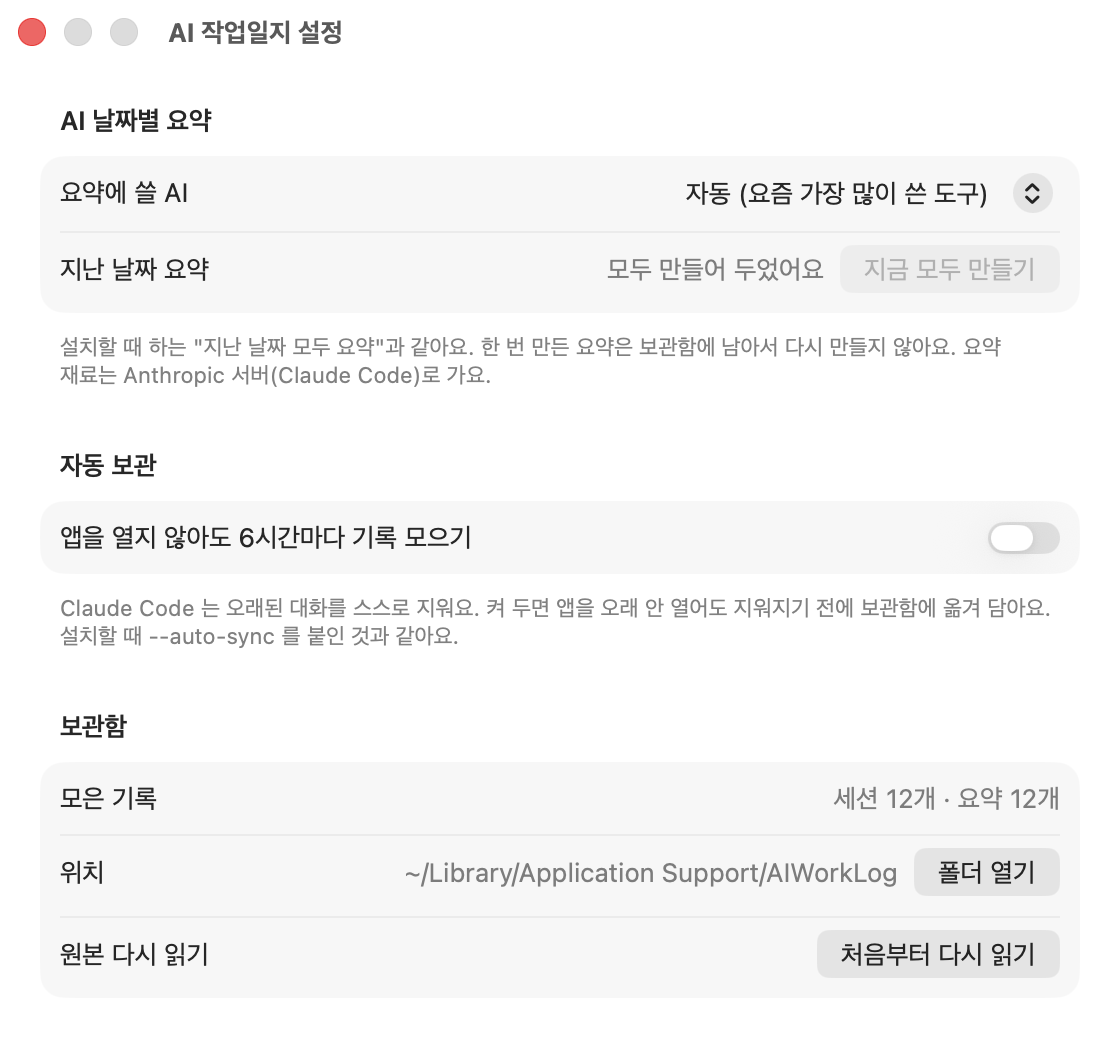
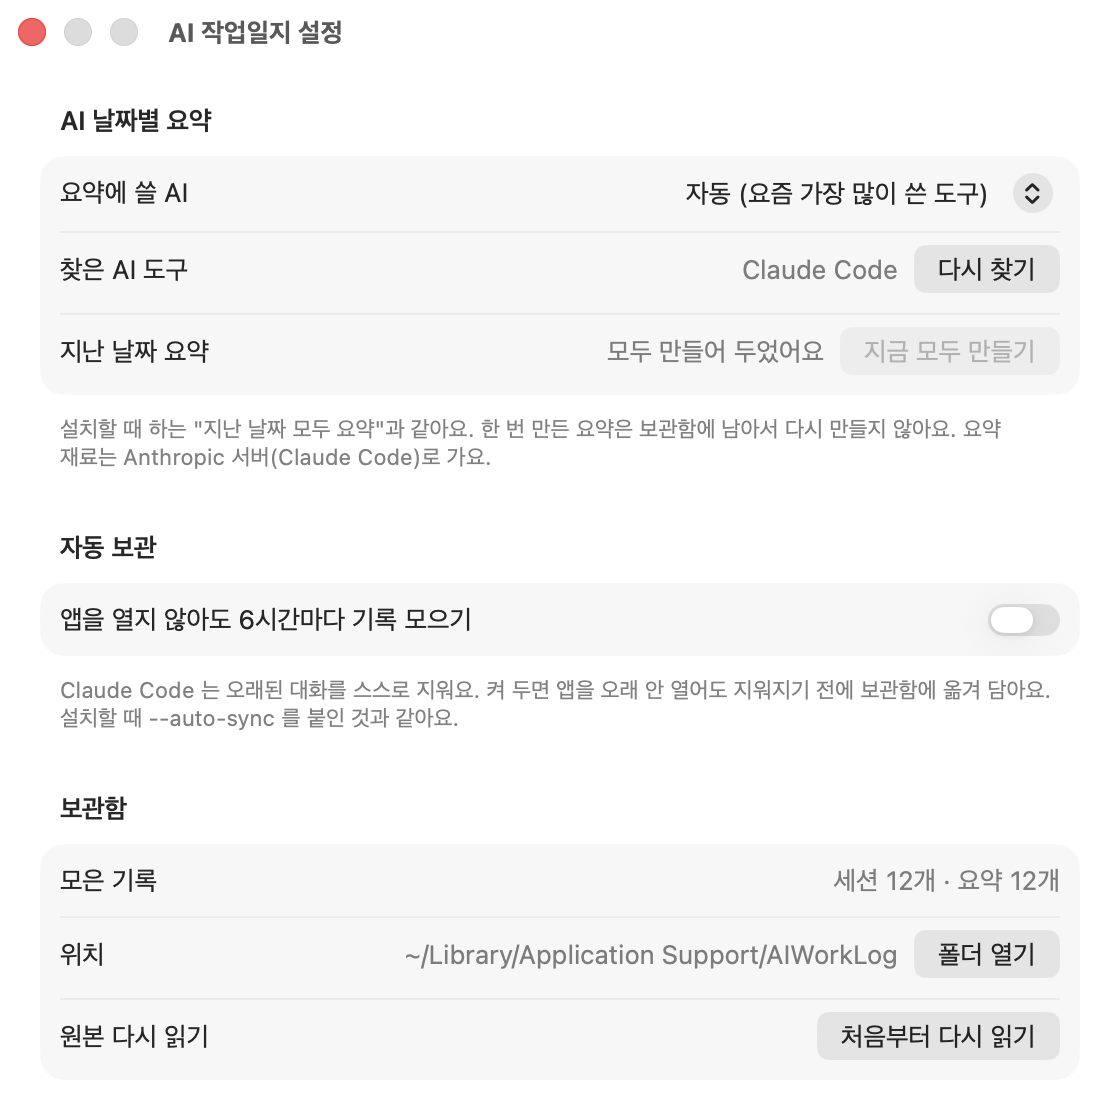
AI 가 없을 때 저장된 요약 보여 주기, 빈 탭 꾸미기
- 요약할 AI 가 없어도 저장해 둔 요약은 그대로 보여 주고 "다시 요약·이어서 요약" 버튼만 숨김
  - 새 요청이 생긴 날은 "요약할 AI 가 없어서 이어 쓰지 못해요"로 알림
- 날짜 목록 위에 "요약해 줄 AI 를 찾지 못했어요" 안내(다시 찾기·닫기), 고른 도구만 없으면 "자동으로 바꾸기"
- 앱으로 돌아올 때 AI 도구를 다시 찾음 (1분에 한 번까지)
- 설정에 "찾은 AI 도구" 줄과 다시 찾기
- 빈 화면을 테두리 카드 가운데 정렬로 통일(EmptyCard): AI 규칙·스킬, AI 메모, 세션, 전체 스킬·규칙
- 화면 확인용 실행 옵션 --no-ai, --tab, README 에 "AI 가 없으면요?" 와 새 설정 그림

diff --git a/Sources/AIWorkLog/ProjectView.swift b/Sources/AIWorkLog/ProjectView.swift
@@ -5,9 +5,16 @@ struct ProjectView: View {
     @Environment(AppModel.self) private var model
     var project: ProjectSummary
 
-    private enum Tab: Hashable { case worklog, sessions, setup, notes }
+    private enum Tab: String, Hashable { case worklog, sessions, setup, notes }
 
-    @State private var tab: Tab = .worklog
+    /// 화면 확인용: `--tab worklog|sessions|setup|notes` 로 시작 탭을 고른다.
+    private static var launchTab: Tab {
+        let args = ProcessInfo.processInfo.arguments
+        guard let i = args.firstIndex(of: "--tab"), i + 1 < args.count else { return .worklog }
+        return Tab(rawValue: args[i + 1]) ?? .worklog
+    }
+
+    @State private var tab: Tab = ProjectView.launchTab
     /// 막대를 눌러 고른 날. 그날 한 일만 본다.
     @State private var pickedDay: Date?
     /// 무한 스크롤: 지금까지 그린 날 수, 세션 수.
@@ -97,6 +104,7 @@ struct ProjectView: View {
         // Group 의 자식은 바깥 LazyVStack 에 하나씩 풀려 들어가서 날마다 따로 늦게 그려진다.
         Group {
             worklogSummary(days)
+            NoSummaryEngineNote()
             if days.isEmpty {
                 emptyWorklog
             }
@@ -134,7 +142,9 @@ struct ProjectView: View {
     @ViewBuilder
     private var emptyWorklog: some View {
         if project.sessions.isEmpty {
-            Text("대화 기록이 지워져 메모만 남은 프로젝트예요").foregroundStyle(.secondary)
+            EmptyCard(title: "남은 세션이 없어요",
+                      message: "대화 기록이 지워져 AI 메모만 남은 프로젝트예요.",
+                      symbol: "rectangle.stack")
         } else {
             VStack(alignment: .leading, spacing: 8) {
                 Text(query.isEmpty ? "\(model.period.longLabel)에는 이 프로젝트에서 한 일이 없어요" : "‘\(query)’ 와 맞는 작업이 없어요")
@@ -175,12 +185,9 @@ struct ProjectView: View {
     @ViewBuilder
     private var setup: some View {
         if WorkLogAnalytics.configScopes(for: project.path, configs: model.snapshot.configs).isEmpty && project.skillsUsed.isEmpty {
-            Card {
-                EmptyHint(title: "만들어 둔 규칙·스킬이 없어요",
-                          message: "이 폴더나 상위 폴더에 CLAUDE.md, AGENTS.md, .claude/skills 같은 파일이 생기면 여기에 보여요.",
-                          symbol: "wand.and.stars")
-                    .frame(height: 200)
-            }
+            EmptyCard(title: "만들어 둔 규칙·스킬이 없어요",
+                      message: "이 폴더나 상위 폴더에 CLAUDE.md, AGENTS.md, .claude/skills 같은 파일이 생기면 여기에 보여요.",
+                      symbol: "wand.and.stars")
         } else {
             ProjectConfigCard(project: project)
         }
@@ -189,7 +196,9 @@ struct ProjectView: View {
     @ViewBuilder
     private var notes: some View {
         if project.notes.isEmpty {
-            Text("Claude Code 가 이 프로젝트에 대해 남긴 메모가 없어요").foregroundStyle(.secondary)
+            EmptyCard(title: "AI 가 남긴 메모가 없어요",
+                      message: "Claude Code 가 이 프로젝트에 대해 기억해 둘 것이 생기면 여기에 보여요.",
+                      symbol: "note.text")
         } else {
             Card(title: "AI 가 남긴 메모", subtitle: "Claude Code 가 이 프로젝트에 대해 기억해 둔 내용 (\(project.notes.count)개)") {
                 VStack(alignment: .leading, spacing: 0) {
@@ -249,7 +258,9 @@ struct DayWorkCard: View {
         let added = day.entries.reduce(0) { $0 + $1.linesAdded }
         let removed = day.entries.reduce(0) { $0 + $1.linesRemoved }
         let hasSummary = model.summaries[key] != nil
-        let summarized = model.summaryEngine != nil && (hasSummary || DaySummarizer.promptCount(for: day) > 0)
+        // 요약을 끄지 않았으면 저장해 둔 요약은 AI 가 없어도 보여 준다. 새로 만들 수 있을 때만 빈 요약 자리를 둔다.
+        let summarized = model.summaryChoice != .off
+            && (hasSummary || (model.summaryEngine != nil && DaySummarizer.promptCount(for: day) > 0))
         // 검색 중에는 찾은 요청이 보여야 하고, 아직 요약이 없는 오늘은 요청 목록이 본문이다.
         let expanded = searching || (showDetails ?? !hasSummary)
         VStack(alignment: .leading, spacing: 12) {
@@ -357,6 +368,8 @@ struct DaySummaryBox: View {
         let newer = summary == nil ? 0 : (input?.newSince ?? 0)
         let wake = input?.wakeAt
         let failure: String? = if case .failed(let message) = job { message } else { nil }
+        // 요약할 AI 가 없으면 저장해 둔 요약만 보여 주고, 다시 만드는 버튼은 숨긴다.
+        let canSummarize = model.summaryEngine != nil
 
         VStack(alignment: .leading, spacing: 8) {
             HStack(spacing: 6) {
@@ -372,6 +385,11 @@ struct DaySummaryBox: View {
                     Text(job == .queued ? "차례를 기다리는 중…" : newer > 0 ? "새 요청을 더하는 중…" : "요약하는 중…")
                         .font(.caption)
                         .foregroundStyle(.secondary)
+                } else if !canSummarize {
+                    Text("요약할 AI 없음")
+                        .font(.caption)
+                        .foregroundStyle(.tertiary)
+                        .help("저장해 둔 요약이에요. 새로 만들거나 이어 쓰려면 Claude Code·Codex·LM Studio 중 하나가 있어야 해요")
                 } else {
                     Button {
                         model.requestSummary(project: projectPath, name: projectName, day: day, force: true)
@@ -400,7 +418,7 @@ struct DaySummaryBox: View {
                 }
                 .font(.callout)
                 if newer > 0 && !busy {
-                    Text(newerNote(newer, wake: wake))
+                    Text(newerNote(newer, wake: wake, canSummarize: canSummarize))
                         .font(.caption)
                         .foregroundStyle(.secondary)
                 }
@@ -431,8 +449,9 @@ struct DaySummaryBox: View {
         .background(Color.accentColor.opacity(0.07), in: RoundedRectangle(cornerRadius: 10, style: .continuous))
     }
 
-    private func newerNote(_ newer: Int, wake: Date?) -> String {
+    private func newerNote(_ newer: Int, wake: Date?, canSummarize: Bool) -> String {
         let head = "요약한 뒤로 요청이 \(newer)개 더 생겼어요."
+        if !canSummarize { return head + " 요약할 AI 가 없어서 이어 쓰지 못해요" }
         if let wake { return head + " 손을 떼고 30분이 지나면(\(Fmt.time(wake))쯤) 이어서 요약해요" }
         if Calendar.current.isDateInToday(day) { return head }
         return head + " \"이어서 요약\"을 누르면 새 요청만 더해 정리해요"
@@ -443,6 +462,58 @@ struct DaySummaryBox: View {
         if summary == nil { return "기다리지 않고 지금까지 보낸 요청으로 바로 요약해요 (\(destination))" }
         if newer > 0 { return "새 요청 \(newer)개만 \(destination)에 보내 지금 요약에 더해요" }
         return "그날 요청과 결과를 \(destination)에 보내 처음부터 다시 요약해요"
+    }
+}
+
+/// 요약할 AI 를 찾지 못했을 때 날짜 목록 위에 띄우는 안내. 저장해 둔 요약은 그대로 보인다.
+struct NoSummaryEngineNote: View {
+    @Environment(AppModel.self) private var model
+    /// 아무 도구도 없을 때의 안내는 닫을 수 있다 (메뉴의 "요약할 AI 없음"은 그대로).
+    @AppStorage("hideNoSummaryEngineNote") private var hidden = false
+
+    var body: some View {
+        if let engines = model.summaryEngines, model.summaryEngine == nil, model.summaryChoice != .off,
+           !(engines.isEmpty && hidden) {
+            HStack(alignment: .top, spacing: 10) {
+                Image(systemName: "sparkles")
+                    .foregroundStyle(Color.accentColor)
+                    .padding(.top, 2)
+                VStack(alignment: .leading, spacing: 4) {
+                    Text(title(engines)).font(.callout.weight(.semibold))
+                    Text(message(engines))
+                        .font(.caption)
+                        .foregroundStyle(.secondary)
+                        .fixedSize(horizontal: false, vertical: true)
+                }
+                Spacer(minLength: 8)
+                Button("다시 찾기") { model.findSummaryEngines() }
+                if engines.isEmpty {
+                    Button { hidden = true } label: { Image(systemName: "xmark") }
+                        .buttonStyle(.borderless)
+                        .help("안내 닫기")
+                } else {
+                    Button("자동으로 바꾸기") { model.summaryChoice = .auto }
+                }
+            }
+            .controlSize(.small)
+            .padding(12)
+            .frame(maxWidth: .infinity, alignment: .leading)
+            .background(Color.accentColor.opacity(0.07), in: RoundedRectangle(cornerRadius: 10, style: .continuous))
+        }
+    }
+
+    private func title(_ engines: [SummaryEngine]) -> String {
+        guard let kind = model.summaryChoice.kind, !engines.isEmpty else { return "요약해 줄 AI 를 찾지 못했어요" }
+        return kind == .lmStudio ? "LM Studio 서버가 꺼져 있어요" : "고른 \(kind.displayName)를 찾지 못했어요"
+    }
+
+    private func message(_ engines: [SummaryEngine]) -> String {
+        guard let kind = model.summaryChoice.kind, !engines.isEmpty else {
+            return "이 맥에 Claude Code 나 Codex 를 설치하거나 LM Studio 서버를 켜면, 날마다 한 일을 AI 가 몇 줄로 요약해 줘요. "
+                + "그 전까지는 요청 목록을 그대로 보여 주고, 저장해 둔 요약은 그대로 보여요."
+        }
+        let fix = kind == .lmStudio ? "LM Studio 에서 서버를 켠 뒤" : "\(kind.displayName)를 설치한 뒤"
+        return "\(fix) 다시 찾기를 누르거나, 자동으로 바꾸면 이 맥에 있는 \(engines.map(\.displayName).joined(separator: "·"))로 요약해요."
     }
 }
 

diff --git a/Sources/AIWorkLog/AppModel.swift b/Sources/AIWorkLog/AppModel.swift
@@ -152,11 +152,14 @@ final class AppModel {
 
     /// `--demo`: 지어낸 기록으로 띄운다 (README 스크린샷용). 실제 기록·보관함을 읽지 않고 AI 도 부르지 않는다.
     let isDemo = ProcessInfo.processInfo.arguments.contains("--demo")
+    /// `--no-ai`: 이 맥에 요약할 AI 가 하나도 없는 척한다 (화면 확인용).
+    private let pretendNoAI = ProcessInfo.processInfo.arguments.contains("--no-ai")
 
     @ObservationIgnored private let loader = WorkLogLoader()
     @ObservationIgnored private var toastTask: Task<Void, Never>?
     @ObservationIgnored private var pendingSummaries: [PendingSummary] = []
     @ObservationIgnored private var runningSummaries = 0
+    @ObservationIgnored private var enginesCheckedAt: Date?
 
     private struct PendingSummary {
         var key: String
@@ -178,7 +181,7 @@ final class AppModel {
         if isDemo {
             // 기록과 요약을 같은 시각으로 만들어야 "요약한 뒤로 생긴 요청" 수가 맞는다.
             let now = Date()
-            summaryEngines = [DemoData.engine]
+            summaryEngines = pretendNoAI ? [] : [DemoData.engine]
             summaries = DemoData.summaries(now: now)
             apply(DemoData.snapshot(now: now))
             return
@@ -220,10 +223,12 @@ final class AppModel {
 
     var storeURL: URL? { loader.store?.url }
 
-    /// 앱으로 돌아왔을 때, 마지막으로 읽은 지 1분이 넘었으면 다시 읽는다.
-    func refreshIfStale() {
-        guard hasLoaded, Date().timeIntervalSince(snapshot.loadedAt) > 60 else { return }
-        refresh()
+    /// 앱으로 돌아왔을 때: 마지막으로 읽은 지 1분이 넘었으면 기록을 다시 읽고,
+    /// 그사이 Claude Code·Codex 를 깔았거나 LM Studio 서버를 켰을 수 있으니 AI 도구도 다시 찾는다.
+    func appBecameActive() {
+        guard hasLoaded else { return }
+        if Date().timeIntervalSince(snapshot.loadedAt) > 60 { refresh() }
+        if let checked = enginesCheckedAt, Date().timeIntervalSince(checked) > 60 { findSummaryEngines() }
     }
 
     func session(_ id: String) -> WorkSession? { byId[id] }
@@ -319,6 +324,11 @@ final class AppModel {
 
     func findSummaryEngines() {
         guard !isDemo else { return }
+        enginesCheckedAt = Date()
+        if pretendNoAI {
+            summaryEngines = []
+            return
+        }
         Task {
             summaryEngines = await DaySummarizer.detectEngines()
             summaryJobs = summaryJobs.filter { $0.value == .running }
@@ -342,7 +352,8 @@ final class AppModel {
     /// 지난 날은 한 번 요약하면(마감하면) 그대로 쓰고, 오늘은 손 뗀 지 30분이 지나면 그 뒤 요청만 더해 이어 쓴다.
     /// `force` 는 버튼: 새 요청이 있으면 이어 쓰기, 없으면 처음부터 다시.
     func requestSummary(project path: String, name: String, day: Date, force: Bool = false, background: Bool = false) {
-        guard let engine = summaryEngine else { return }
+        // 요약할 AI 가 없어도 "요약한 뒤로 요청이 N개 더" 안내는 해야 하니 그날 상태는 먼저 잰다.
+        let engine = summaryEngine
         let key = summaryKey(project: path, day: day)
         guard let source = DaySummarizer.source(project: path, day: day, sessions: snapshot.sessions),
               let full = DaySummarizer.material(for: source, projectName: name) else {
@@ -353,9 +364,10 @@ final class AppModel {
         let plan = DaySummarizer.plan(for: source, existing: existing, force: force)
         let count = DaySummarizer.promptCount(for: source)
         var wake: Date?
-        if case .wait(let until) = plan { wake = until }
+        if case .wait(let until) = plan, engine != nil { wake = until }
         let input = SummaryInput(promptCount: count, newSince: existing.map { DaySummarizer.newSince($0, in: source) } ?? count, wakeAt: wake)
         if summaryInputs[key] != input { summaryInputs[key] = input }
+        guard let engine else { return }
 
         switch summaryJobs[key] {
         case .queued, .running: return

diff --git a/Sources/AIWorkLog/SettingsView.swift b/Sources/AIWorkLog/SettingsView.swift
@@ -20,13 +20,22 @@ struct SettingsView: View {
                     }
                     Text("끄기").tag(SummaryChoice.off)
                 }
+                LabeledContent("찾은 AI 도구") {
+                    HStack(spacing: 8) {
+                        Text(foundEngines).foregroundStyle(.secondary)
+                        Button("다시 찾기") { model.findSummaryEngines() }
+                    }
+                }
                 LabeledContent("지난 날짜 요약") {
                     backlogControl
                 }
             } header: {
                 Text("AI 날짜별 요약")
             } footer: {
-                Text("설치할 때 하는 \"지난 날짜 모두 요약\"과 같아요. 한 번 만든 요약은 보관함에 남아서 다시 만들지 않아요. "
+                Text((model.summaryEngines?.isEmpty == true
+                      ? "요약할 AI 가 없어요. Claude Code·Codex 를 설치하거나 LM Studio 서버를 켜면 앱으로 돌아올 때 알아서 찾아요. 저장해 둔 요약은 그대로 보여요.\n"
+                      : "")
+                     + "설치할 때 하는 \"지난 날짜 모두 요약\"과 같아요. 한 번 만든 요약은 보관함에 남아서 다시 만들지 않아요. "
                      + (model.summaryEngine.map { "요약 재료는 \($0.destination)로 가요." } ?? ""))
                     .foregroundStyle(.secondary)
             }
@@ -85,6 +94,11 @@ struct SettingsView: View {
                     .disabled(count == 0 || model.summaryEngine == nil || model.isDemo)
             }
         }
+    }
+
+    private var foundEngines: String {
+        guard let engines = model.summaryEngines else { return "찾는 중…" }
+        return engines.isEmpty ? "없어요" : engines.map(\.displayName).joined(separator: " · ")
     }
 
     private var storeSummary: String {

diff --git a/Sources/AIWorkLog/ConfigViews.swift b/Sources/AIWorkLog/ConfigViews.swift
@@ -46,11 +46,8 @@ struct SkillsView: View {
                 }
 
                 if model.snapshot.configs.isEmpty && model.snapshot.globalConfigs.isEmpty {
-                    Card {
-                        EmptyHint(title: model.snapshot.isSynced ? "만들어 둔 스킬·규칙이 없어요" : "설정을 찾는 중이에요",
-                                  message: "CLAUDE.md, AGENTS.md, .claude/skills 같은 파일을 찾아 보여 줘요.", symbol: "wand.and.stars")
-                            .frame(height: 220)
-                    }
+                    EmptyCard(title: model.snapshot.isSynced ? "만들어 둔 스킬·규칙이 없어요" : "설정을 찾는 중이에요",
+                              message: "CLAUDE.md, AGENTS.md, .claude/skills 같은 파일을 찾아 보여 줘요.", symbol: "wand.and.stars")
                 }
             }
             .padding(24)

diff --git a/Sources/AIWorkLog/Theme.swift b/Sources/AIWorkLog/Theme.swift
@@ -208,6 +208,20 @@ struct EmptyHint: View {
     }
 }
 
+/// 테두리 있는 카드 가운데에 놓는 빈 화면 안내. 탭마다 "아직 없어요"를 같은 모양으로 보여 준다.
+struct EmptyCard: View {
+    var title: String
+    var message: String
+    var symbol: String = "tray"
+
+    var body: some View {
+        Card {
+            EmptyHint(title: title, message: message, symbol: symbol)
+                .frame(maxWidth: .infinity, minHeight: 200)
+        }
+    }
+}
+
 /// AI 답변·프롬프트 글을 마크다운 일부(굵게, 코드, 링크)까지 살려 보여 준다.
 enum RichText {
     static func inline(_ s: String, highlight: String? = nil) -> AttributedString {

diff --git a/Sources/AIWorkLog/AIWorkLogApp.swift b/Sources/AIWorkLog/AIWorkLogApp.swift
@@ -38,7 +38,7 @@ struct AIWorkLogApp: App {
                     model.refresh()
                 }
                 .onReceive(NotificationCenter.default.publisher(for: NSApplication.didBecomeActiveNotification)) { _ in
-                    model.refreshIfStale()
+                    model.appBecameActive()
                 }
         }
         .defaultSize(width: 1240, height: 820)

diff --git a/README.md b/README.md
@@ -93,6 +93,13 @@ AI 에게 일을 많이 시키다 보면 이런 일이 생겨요.
 - 이미 요약이 있으면 **새로 한 부탁만** 더해서 고쳐 써요. 처음부터 다시 쓰는 것보다 AI 사용량이 적어요.
 - 하루가 끝나면 마지막으로 한 번 정리해서 그날 요약을 확정해요.
 
+### AI 가 없으면요?
+
+- 요약해 줄 AI(Claude Code, Codex, LM Studio)가 하나도 없어도 앱은 그대로 써요. 날짜 카드에 요청 → AI 가 한 일 → 고친 파일 목록이 보여요.
+- 목록 위에 "요약해 줄 AI 를 찾지 못했어요" 안내가 떠요. 필요 없으면 ✕ 로 닫아요.
+- 전에 만들어 둔 요약은 AI 가 없어도 **그대로 보여요**. 새로 만들거나 이어 쓰는 버튼만 숨어요.
+- 나중에 Claude Code·Codex 를 설치하거나 LM Studio 서버를 켜면, 앱으로 돌아올 때 알아서 다시 찾아요.
+
 ### 그 밖에
 
 - 위쪽 **오늘 · 7일 · 30일 · 90일 · 전체** 버튼으로 보고 싶은 기간을 골라요.
@@ -243,7 +250,8 @@ scripts/screenshot.sh /tmp/a.png --screen skills --period all   # 앱 창만 캡
 
 앱 실행 옵션(화면 확인용): `--screen timeline|prompts|skills|project=<경로>`, `--period today|week|month|quarter|all`,
 `--session <id>`, `--search <글>`, `--report`, `--settings`(설정 창 열기), `--dark`, `--frame x,y,w,h`, `--hover-day yyyy-MM-dd`(차트에 마우스를 올린 상태),
-`--demo`(지어낸 기록으로 띄우기 — 실제 기록·보관함을 읽지 않고 AI 도 부르지 않음. README 그림은 이걸로 찍었다).
+`--demo`(지어낸 기록으로 띄우기 — 실제 기록·보관함을 읽지 않고 AI 도 부르지 않음. README 그림은 이걸로 찍었다),
+`--no-ai`(요약할 AI 가 하나도 없는 척하기), `--tab worklog|sessions|setup|notes`(프로젝트 화면 시작 탭).
 
 README 그림 다시 찍기 (창 크기는 화면에 맞게):
 
